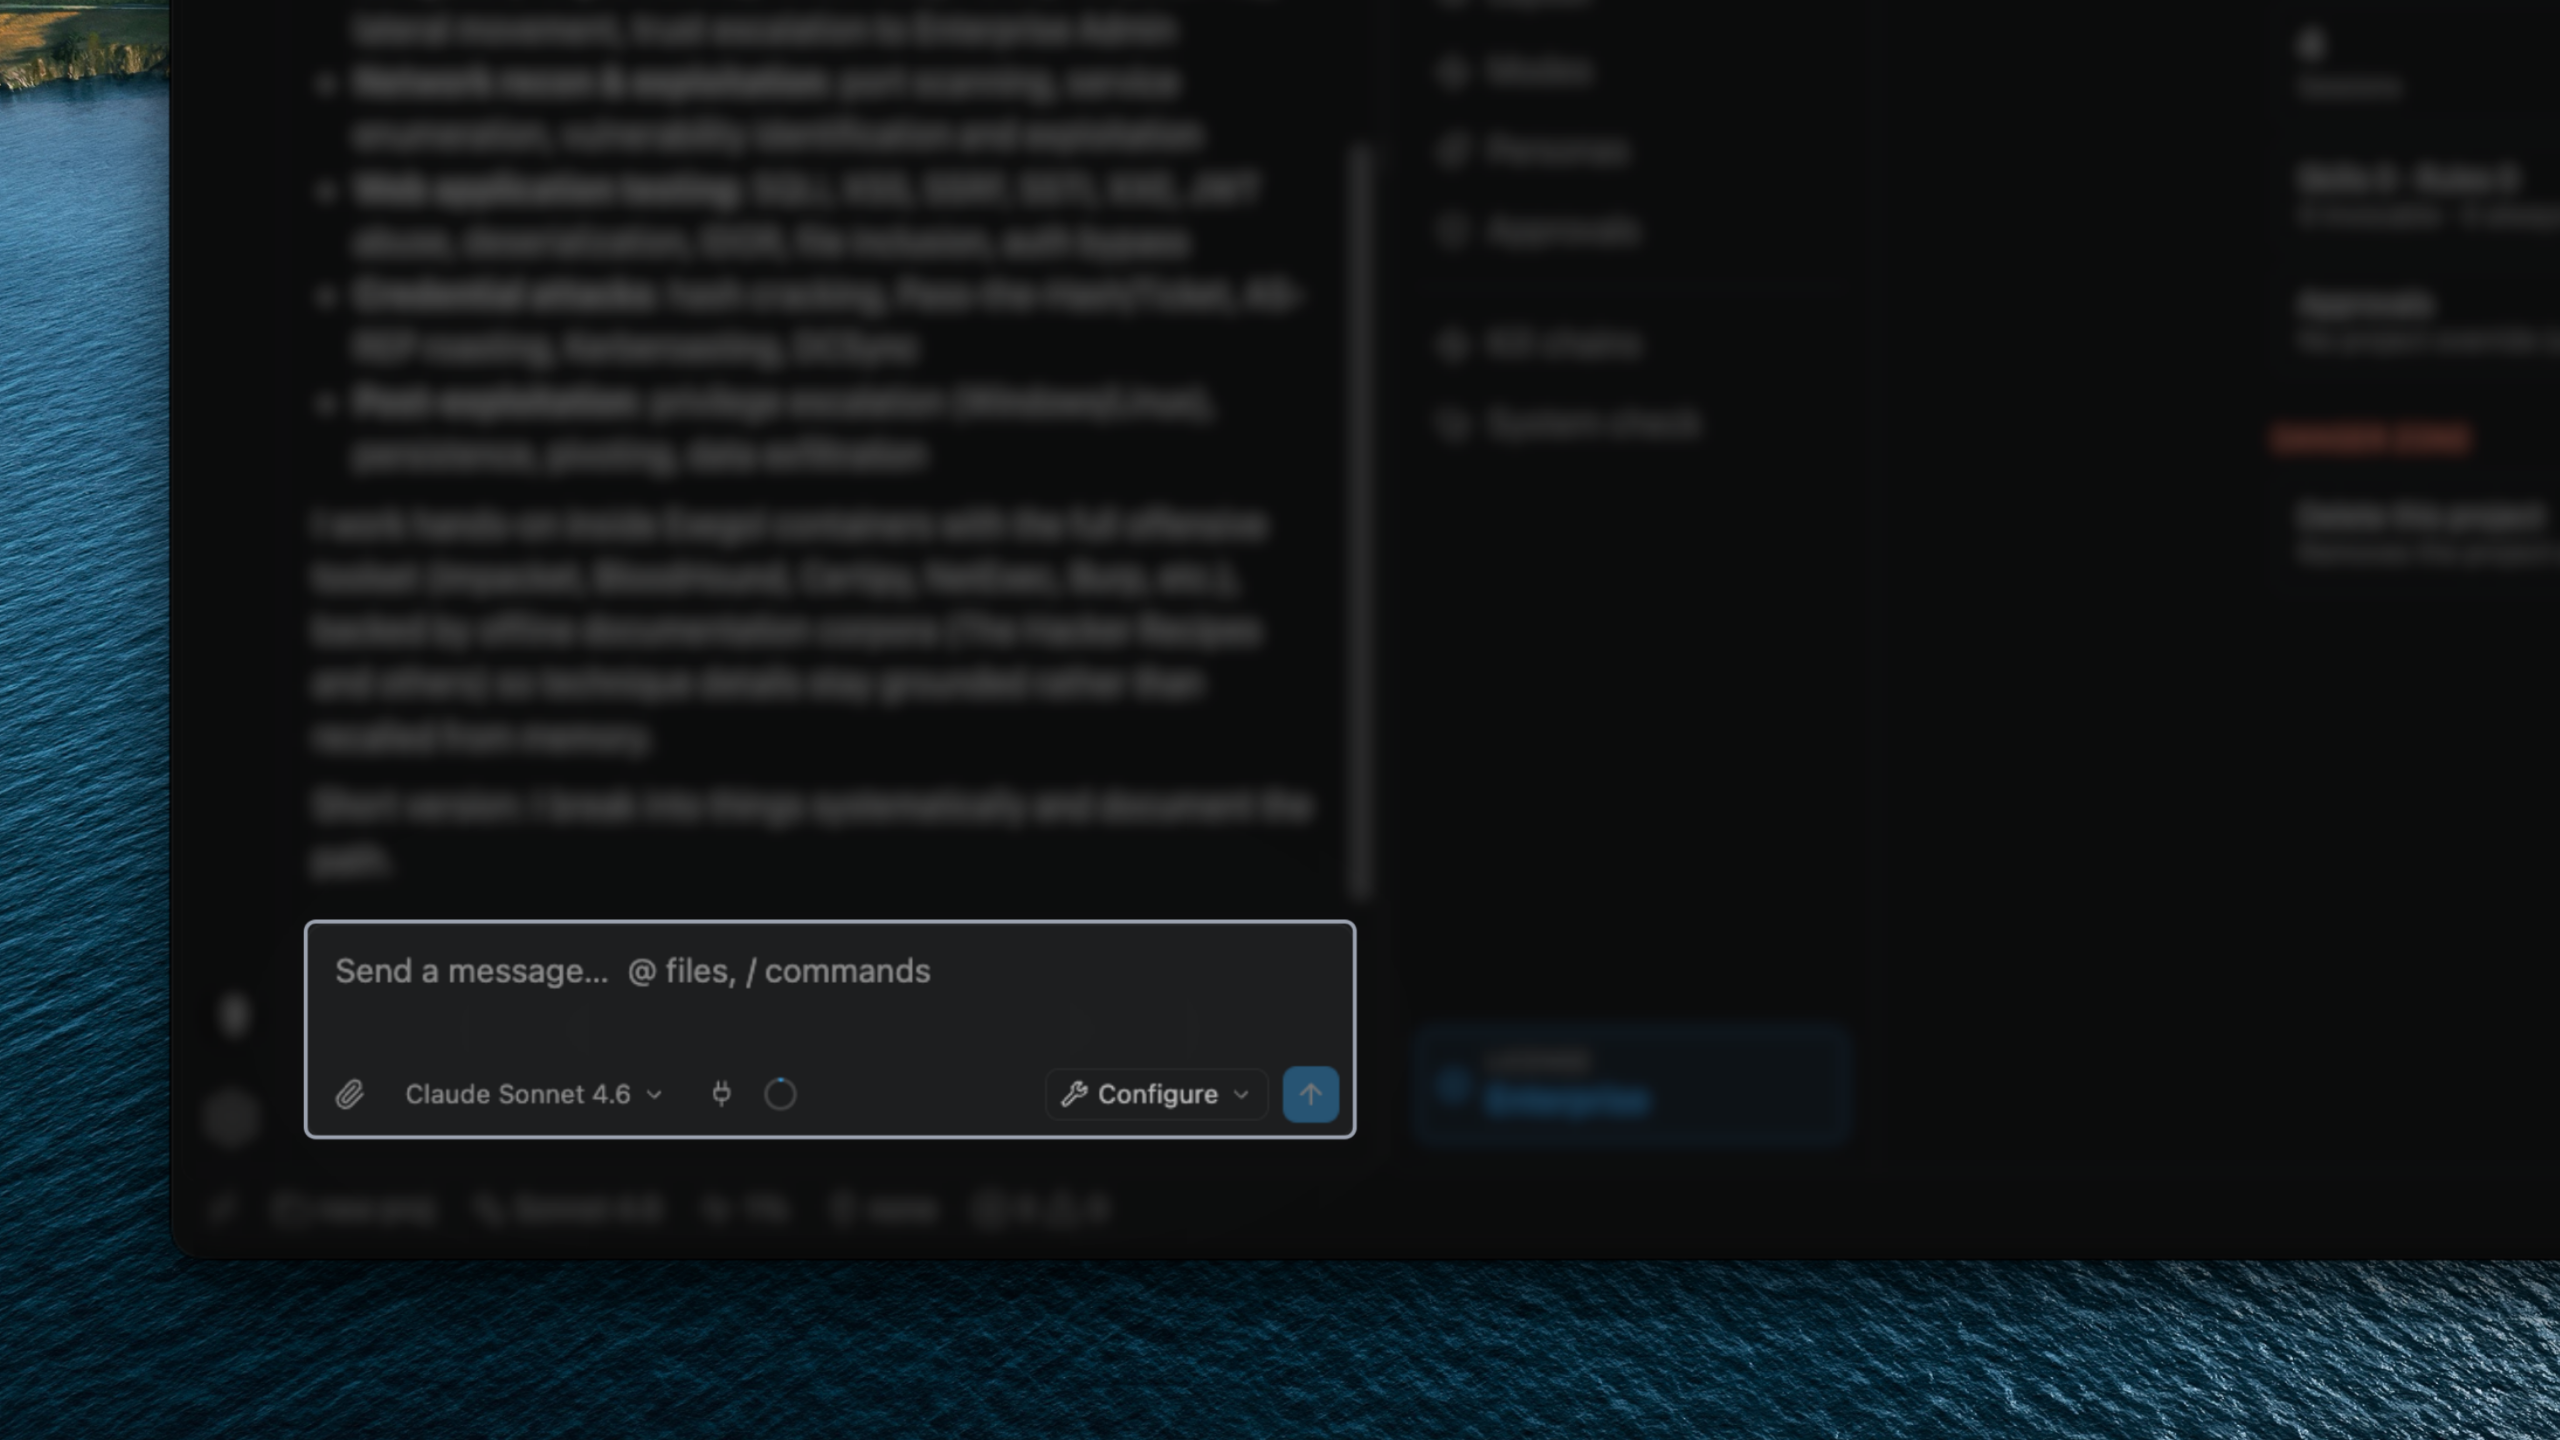
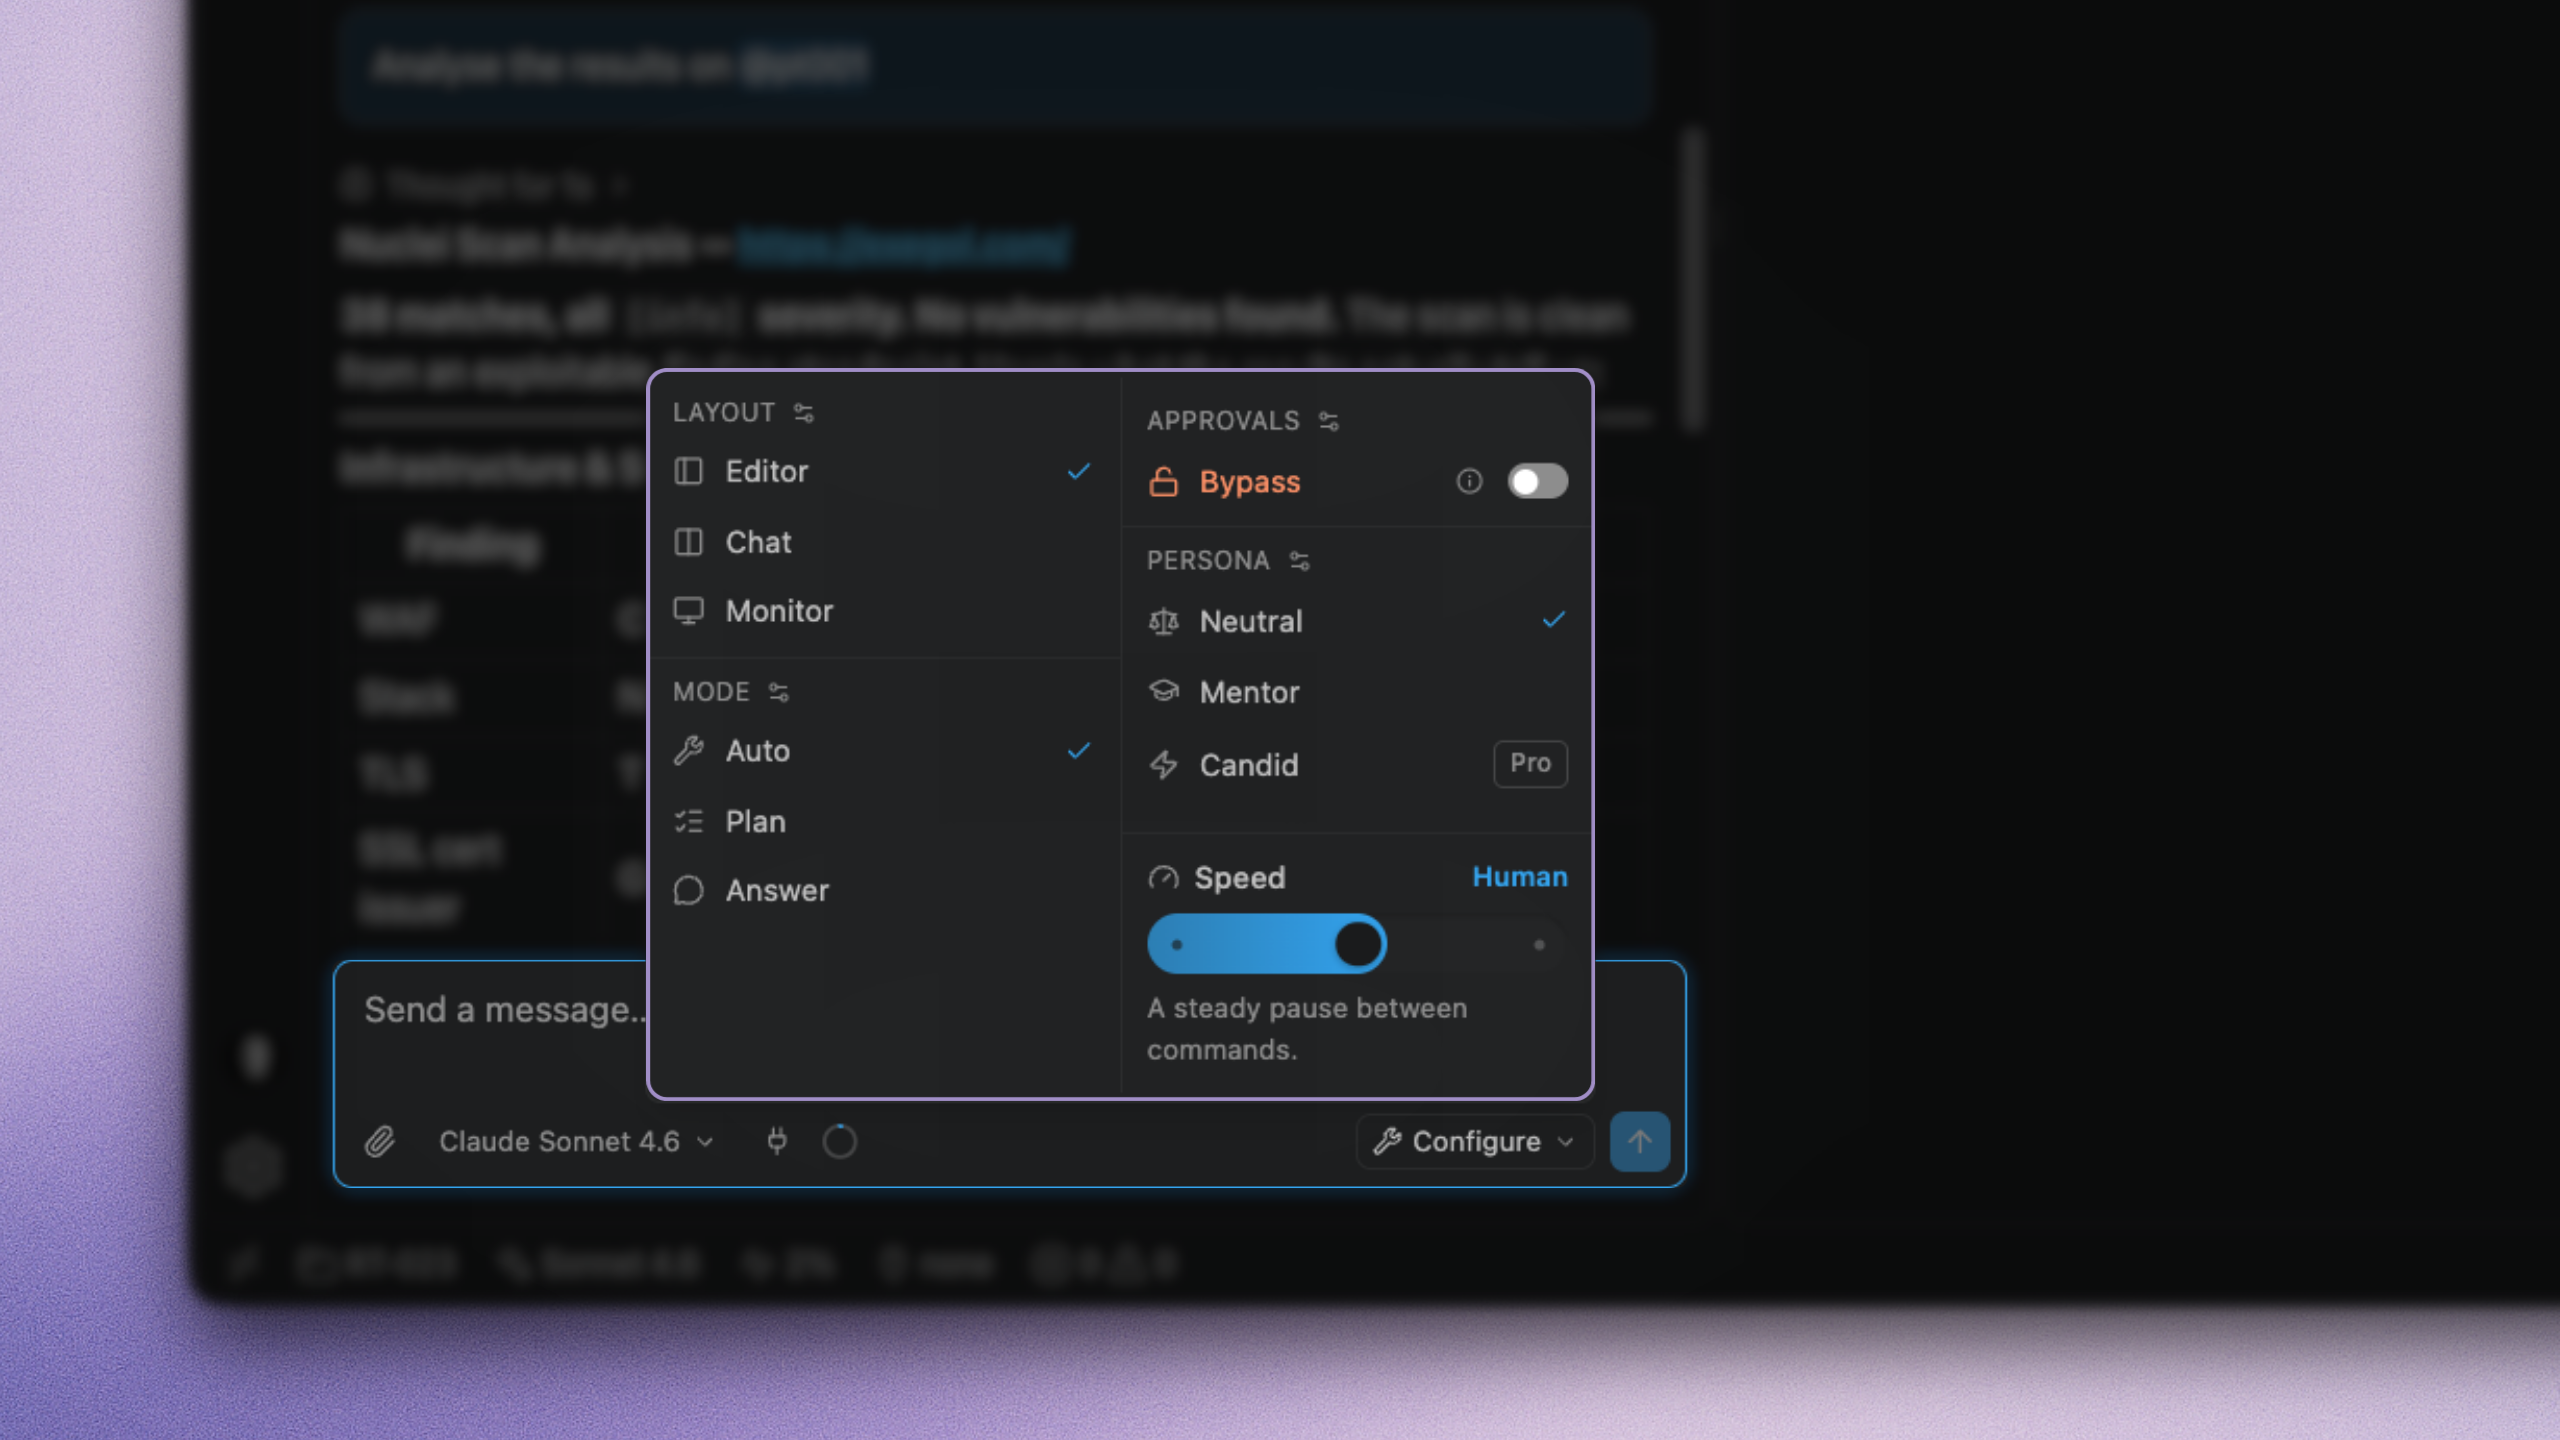
Add new layout and system check images to documentation
This commit introduces several new images for the Exegol Studio documentation, including layouts for chat, editor, and monitor, as well as a system check image. Additionally, the existing composer image has been updated. References to these images have been added in the relevant Markdown files to enhance visual guidance for users.

diff --git a/docs/src/studio/SCREENSHOTS.md b/docs/src/studio/SCREENSHOTS.md
@@ -1,30 +1,17 @@
 # Studio screenshots to capture
 
-Not linked in the sidebar. Regenerate the checklist with:
+Not linked in the sidebar. Remaining shots to add later. Lab data only, one consistent window size, crop to the region under discussion. Drop files in `docs/src/assets/studio/` and reference them from the page.
 
-```bash
-grep -rn "Screenshot to add" docs/src/studio/
-```
-
-Each id needs `_dark.png` and `_light.png` under `docs/src/assets/studio/`. Lab data only, one consistent window size, crop to the region under discussion. Until files exist, pages keep `> [!WARNING] Screenshot to add:` placeholders (do not add real `![]()` tags that break the VitePress build).
+Each themed pair should be `_dark.png` and `_light.png` when both exist. Single-theme shots already in the tree are fine as one file.
 
 | Priority | Id | Page | What to capture |
 | -------- | -- | ---- | --------------- |
-| P0 | `overview_hero` | Overview | Clean mid-run sidebar |
-| P0 | `getting-started_approval` | Getting started | Allow / Deny card + tool output |
-| P0 | `getting-started_system-check` | Getting started | System check (Fix setup banner opens the same page) |
-| P0 | `composer_full` | Composer | Attachments, model, MCP, gauge, quick settings open |
-| P0 | `modes_menu` | Modes | Answer / Plan / Auto (+ custom if shown) |
-| P0 | `approvals_bypass` | Approvals | Approval card and Bypass in quick settings |
-| P1 | `layouts_editor` | Layouts | Editor layout with VS Code regions visible |
-| P1 | `layouts_chat` | Layouts | Chat layout |
-| P1 | `layouts_monitor` | Layouts | Monitor layout / pseudo-terminal |
+| P0 | `getting-started_marketplace` | Getting started | VS Code Extensions view with Install highlighted |
+| P0 | `approvals_card` | Approvals | Approval card on a command (Bypass is already shown via composer.png) |
 | P1 | `projects_host-paths` | Projects | Host paths + drag and drop into chat |
 | P1 | `containers_page` | Containers | Containers list |
-| P1 | `providers_page` | Providers | One provider expanded |
 | P1 | `mcp_where-it-runs` | MCP | Container vs host vs remote |
 | P1 | `atlas_panel` | Atlas | Graph with a node selected |
-| P1 | `personas_menu` | Personas | Quick settings personas |
 | P1 | `rooms_default` | Rooms | Default Room (+ optional custom Pro shot) |
 | P1 | `killchain_canvas` | Kill chains (Behavior) | Lab kill chain |
 | P1 | `getting-started_plan` | Getting started | Plan card: Approve & run / Request changes / Deny |

diff --git a/docs/src/studio/getting-started.md b/docs/src/studio/getting-started.md
@@ -5,8 +5,6 @@ If not already, install [Exegol Workstation](/workstation/install) first.
 > [!NOTE] Do I need to change how I use Exegol?
 > No. Studio attaches to the containers you already start with `exegol start`. It installs no tools in the image and changes no wrapper configuration. Uninstall the extension and your containers are unchanged.
 
-<!-- TODO video: 60-90s install to first approved command. <YouTubeVideo videoId="..." /> -->
-
 ## 1. Install the extension
 
 | Editor | How |
@@ -14,17 +12,13 @@ If not already, install [Exegol Workstation](/workstation/install) first.
 | VS Code | Extensions → search **Exegol Studio** → Install |
 | Compatible forks | Same Marketplace listing when available |
 
-> [!WARNING] Screenshot to add: `getting-started_marketplace`
-> VS Code Extensions view with Exegol Studio selected and Install highlighted.
-
 Open the **Exegol Studio** activity bar icon after install. If nothing appears, reload the window (`Developer: Reload Window`).
 
 ## 2. System checks
 
 Open Settings (in the Primary Side Bar on the left, Cog icon) → **System check**. Run it. It probes Docker (CLI and daemon), the Exegol CLI, whether an image and container exist, and whether the project's primary container is running. On Linux it also checks your user can reach the Docker socket (usually the `docker` group). If any checks fail, follow the instructions to fix them (i.e. adding your user to the `docker` group).
 
-> [!WARNING] Screenshot to add: `getting-started_system-check`
-> System check with green and red rows, Fix actions visible.
+![](/assets/studio/systemcheck.png)
 
 ## 3. Connect a model provider
 

diff --git a/docs/src/studio/interface/layouts.md b/docs/src/studio/interface/layouts.md
@@ -21,12 +21,13 @@ Studio uses the regions VS Code (and compatible forks) already have:
 
 === Editor (default)
 
+![](/assets/studio/layout_editor.png)
+
 Default. Conversation in the primary side bar beside your code. Best when you are editing notes or scripts while the agent runs.
 
-> [!WARNING] Screenshot to add: `layouts_editor`
-> Editor layout: conversation in the primary side bar, code in the editor area.
-
 === Chat
+
+![](/assets/studio/layout_chat.png)
 
 This layout is best for long reading, plan review.
 
@@ -34,10 +35,9 @@ Conversation moves into an editor tab. The side bar keeps sessions, launch actio
 
 Toggle between sidebar chat and a full-width agent tab for the same session from Layout in composer quick settings, or the Studio chat controls.
 
-> [!WARNING] Screenshot to add: `layouts_chat`
-> Chat layout: conversation as an editor tab, sessions and launch actions still in the side bar.
-
 === Monitor
+
+![](/assets/studio/layout_monitor.png)
 
 Splits the run:
 
@@ -47,8 +47,5 @@ Splits the run:
 Use Monitor when raw output matters more than the summary, when debugging what ran, or when showing someone what the agent actually executes.
 
 Detail level (compact vs balanced cards) is a separate preference under Settings → **Layout**. Monitor is a place, not a detail level.
-
-> [!WARNING] Screenshot to add: `layouts_monitor`
-> Monitor layout: conversation in the side bar, pseudo-terminal tab with raw command output in the editor.
 
 :::

diff --git a/docs/src/studio/knowledge/atlas.md b/docs/src/studio/knowledge/atlas.md
@@ -4,9 +4,6 @@ Atlas is searchable reference knowledge inside Studio: documentation indexed as 
 
 Some base bundled Atlas sources are made available out of the box to all.
 
-> [!WARNING] Screenshot to add: `atlas_panel`
-> Atlas graph panel with a node selected and page content beside it.
-
 ## How agents use it
 
 The main agent (and subagents that keep the docs tools) call Atlas on their own when a question looks like it needs reference material (`docs_query`, then read a page). You can also steer them with an explicit ask in the prompt (“check Atlas for ESC8”). That is guidance to the model, not a composer mention.

diff --git a/docs/src/studio/interface/projects.md b/docs/src/studio/interface/projects.md
@@ -6,9 +6,6 @@ Community users can create up to **2** projects and **3** sessions per project.
 
 Pro and above are unlimited <Badge type="pro"/><Badge type="team"/><Badge type="enterprise"/>
 
-> [!WARNING] Screenshot to add: `projects_host-paths`
-> Project settings with host paths / linked folders, and a file being dropped or attached into chat.
-
 | Feature | Description |
 | ------- | ----------- |
 | What a project scopes | Sessions, [kill chains](/studio/behavior/kill-chains), project [rules](/studio/knowledge/rules), [skills](/studio/knowledge/skills), [hooks](/studio/knowledge/hooks), ... |

diff --git a/docs/src/studio/knowledge/mcp.md b/docs/src/studio/knowledge/mcp.md
@@ -4,9 +4,6 @@ MCP plugs external tool providers into a run. The agent sees their tools next to
 
 Settings → **MCP**. Community can register **3** servers per machine; Pro and above are unlimited <Badge type="pro"/><Badge type="team"/><Badge type="enterprise"/>.
 
-> [!WARNING] Screenshot to add: `mcp_where-it-runs`
-> MCP server form with **Where it runs**: In the container, On this machine, or Remote (URL).
-
 ## Where it runs
 
 When you add a server, the first choice is **where the process runs**, not a transport jargon name:

diff --git a/docs/src/studio/behavior/personas.md b/docs/src/studio/behavior/personas.md
@@ -6,8 +6,7 @@ Personas live under Settings → **Personas**. Pick one from composer [quick set
 
 Some personas are made available out of the box to all (for example **Neutral** and **Mentor**).
 
-> [!WARNING] Screenshot to add: `personas_menu`
-> Persona section in quick settings with Neutral / Mentor selected.
+![](/assets/studio/composer.png)
 
 ## Writing one <Badge type="pro"/><Badge type="team"/><Badge type="enterprise"/>
 

diff --git a/docs/src/studio/interface/rooms.md b/docs/src/studio/interface/rooms.md
@@ -2,10 +2,7 @@
 
 A Room is a grid of live session tiles in one editor tab. Use it when more than a couple of agents are running and clicking each session no longer scales.
 
-> [!WARNING] Video to add
-> Default Room with pinned session tiles; optional second shot of a named custom room.
-> Could be a video showing from where to open the room.
-> Show the different tile sizes
+![](/assets/studio/rooms.png)
 
 ## Default Room
 

diff --git a/docs/src/studio/index.md b/docs/src/studio/index.md
@@ -2,8 +2,7 @@
 
 Exegol Studio is an Integrated Hacking Environment (IHE): a hacking cockpit for VS Code and compatible forks (Cursor, Windsurf, VSCodium, and others). It runs on top of [Exegol Workstation](/workstation/).
 
-> [!WARNING] Screenshot to add: `overview_hero`
-> Clean mid-run sidebar: thread with one tool card streaming, composer at the bottom.
+![](/assets/studio/overview.png)
 
 ## Learn from it
 

diff --git a/docs/src/studio/behavior/kill-chains.md b/docs/src/studio/behavior/kill-chains.md
@@ -6,9 +6,6 @@ Kill chains live under Settings → **Kill chains**, and open from a kill-chain 
 
 Kill chains are available on every plan. Clean PNG export without a watermark is part of the paid plans.
 
-> [!WARNING] Screenshot to add: `killchain_canvas`
-> Finished lab kill chain: host, credential, and loot nodes, one dashed hypothesis, one red failed node.
-
 ## What is in it
 
 | Node | Meaning |

diff --git a/docs/src/studio/behavior/approvals.md b/docs/src/studio/behavior/approvals.md
@@ -4,8 +4,7 @@ Two controls decide what runs on your behalf: the **mode** (how far the agent go
 
 Both sit in composer [quick settings](/studio/interface/composer#quick-settings). Bypass is **not** a fourth mode.
 
-> [!WARNING] Screenshot to add: `approvals_bypass`
-> Approval card on a command, and Bypass visible in quick settings.
+![](/assets/studio/composer.png)
 
 ## The approval card
 

diff --git a/docs/src/studio/providers-models.md b/docs/src/studio/providers-models.md
@@ -4,8 +4,7 @@ Studio ships no model of its own. You connect a provider, then pick which model 
 
 Settings → **Providers** (keys and endpoints) and the model list on each provider tile.
 
-> [!WARNING] Screenshot to add: `providers_page`
-> Providers page with one provider expanded, models and visibility toggles visible.
+![](/assets/studio/providers.png)
 
 ### API key
 
